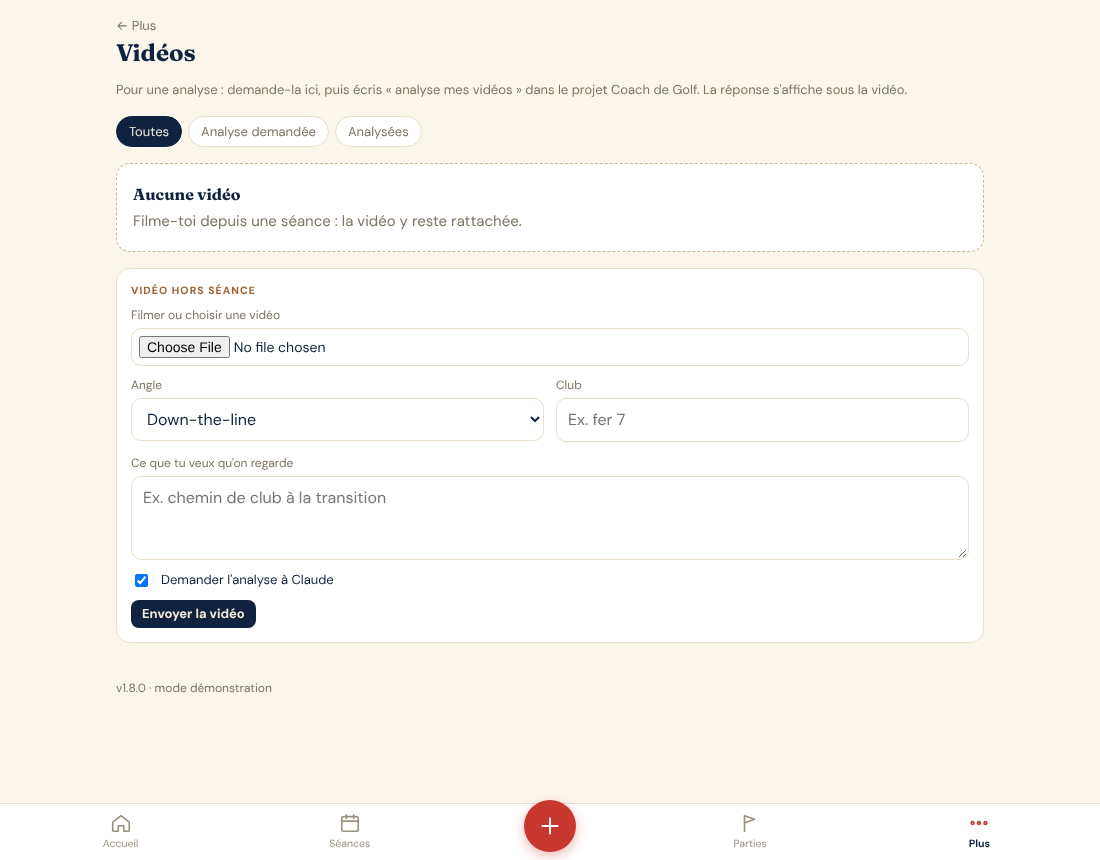
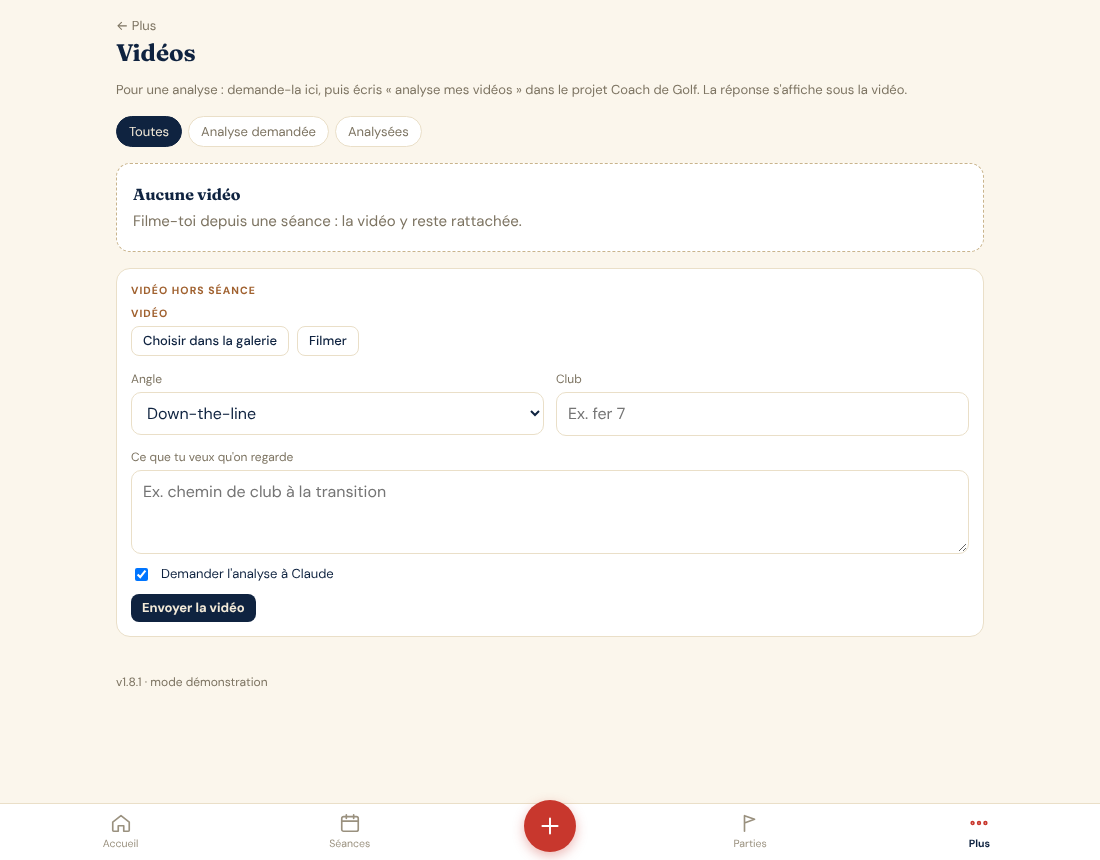
Vidéos : boutons « Choisir dans la galerie » et « Filmer » (le capture forçait la caméra sur Android)
Claude-Session: https://claude.ai/code/session_01MqyfVrD943XHWq3BYDzaTo

diff --git a/js/app.js b/js/app.js
@@ -1,7 +1,7 @@
 /* Objectif Mid-Am 2028 — app de pilotage golf (GitHub Pages + Firebase). */
 (function () {
 "use strict";
-const APP_VERSION = "1.8.0";
+const APP_VERSION = "1.8.1";
 const DEMO = /[?&]demo=1/.test(location.search);
 
 /* ---------- Utilitaires ---------- */
@@ -484,7 +484,14 @@ function videosBlock(ref) {
 }
 function videoForm(ref, k) {
   return `<form class="stack" data-form="video" data-ref="${esc(ref)}" style="margin-top:6px">
-    <div class="f"><label for="vf-${k}">Filmer ou choisir une vidéo</label><input id="vf-${k}" name="file" type="file" accept="video/*" capture="environment" required></div>
+    <div class="f"><span class="lbl">Vidéo</span>
+      <div class="row" style="gap:8px;flex-wrap:wrap">
+        <label class="btn ghost sm" for="vf-${k}" style="cursor:pointer">Choisir dans la galerie</label>
+        <label class="btn ghost sm" for="vk-${k}" style="cursor:pointer">Filmer</label>
+      </div>
+      <input id="vf-${k}" name="file" type="file" accept="video/*" hidden onchange="this.form.querySelector('.vname').textContent=this.files[0]?this.files[0].name:'';this.form.fileCam.value=''">
+      <input id="vk-${k}" name="fileCam" type="file" accept="video/*" capture="environment" hidden onchange="this.form.querySelector('.vname').textContent=this.files[0]?this.files[0].name:'';this.form.file.value=''">
+      <span class="vname xs muted" style="overflow-wrap:anywhere"></span></div>
     <div class="grid">
       <div class="f"><label for="va-${k}">Angle</label><select id="va-${k}" name="angle"><option>Down-the-line</option><option>De face</option><option>Autre</option></select></div>
       <div class="f"><label for="vc-${k}">Club</label><input id="vc-${k}" name="club" data-keep placeholder="Ex. fer 7"></div>
@@ -887,7 +894,7 @@ async function submitNote(form) {
   btn.disabled = false; pg.hidden = true;
 }
 async function submitVideo(form) {
-  const f = form.file.files[0]; if (!f) { toast("Choisis une vidéo."); return; }
+  const f = form.file.files[0] || form.fileCam.files[0]; if (!f) { toast("Choisis une vidéo."); return; }
   if (f.size > 500 * 1048576) { toast("La vidéo dépasse 500 Mo : coupe-la ou exporte-la en 1080p."); return; }
   const btn = form.querySelector("button[type=submit]"); btn.disabled = true; const pg = form.querySelector(".progress"); pg.hidden = false;
   try {

diff --git a/index.html b/index.html
@@ -15,7 +15,7 @@
 <title>Objectif Mid-Am 2028</title>
 <link rel="preconnect" href="https://fonts.googleapis.com">
 <link rel="stylesheet" href="https://fonts.googleapis.com/css2?family=DM+Sans:wght@400;500;700&family=Fraunces:opsz,wght@9..144,500;9..144,700&display=swap">
-<link rel="stylesheet" href="css/app.css?v=15">
+<link rel="stylesheet" href="css/app.css?v=16">
 </head>
 <body>
 <div class="wrap" id="app">
@@ -33,8 +33,8 @@
 <script src="https://www.gstatic.com/firebasejs/10.12.5/firebase-auth-compat.js"></script>
 <script src="https://www.gstatic.com/firebasejs/10.12.5/firebase-firestore-compat.js"></script>
 <script src="https://www.gstatic.com/firebasejs/10.12.5/firebase-storage-compat.js"></script>
-<script src="js/config.js?v=15"></script>
-<script src="js/app.js?v=15"></script>
+<script src="js/config.js?v=16"></script>
+<script src="js/app.js?v=16"></script>
 <script>if ("serviceWorker" in navigator) navigator.serviceWorker.register("sw.js").catch(() => {});</script>
 </body>
 </html>
